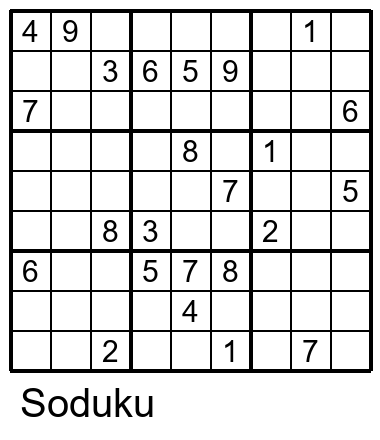
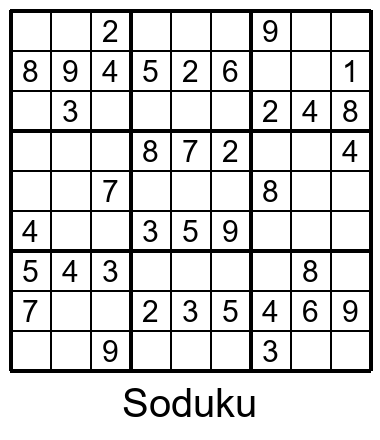
take random puzzle generated by puzzle.py

diff --git a/soduku_solver/Soduku.py b/soduku_solver/Soduku.py
@@ -71,4 +71,4 @@ def main(sudoku):
     print(f"time taken: {(t1-t0):.4f} seconds")
 
 
-main(puzzle.diabolical)
+main(puzzle.random)
